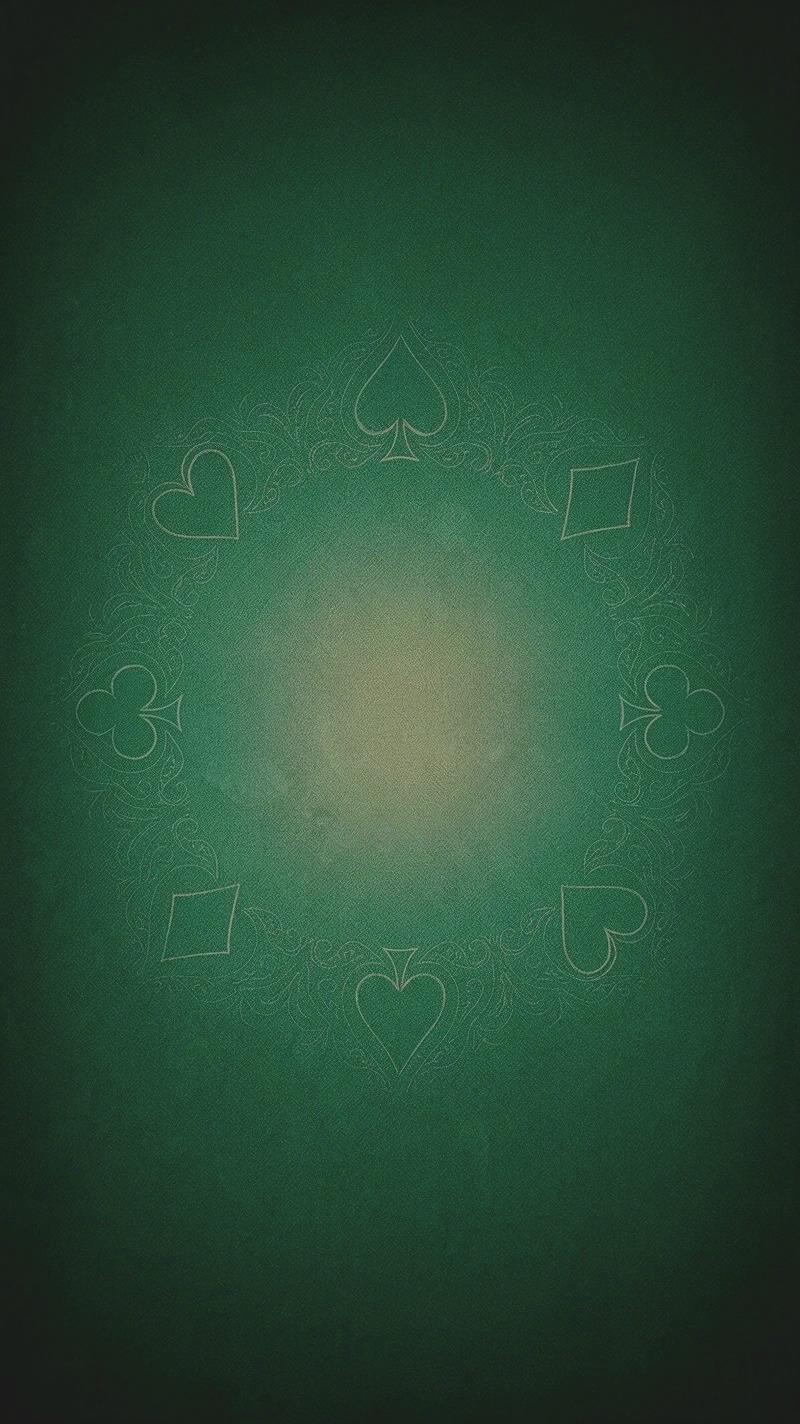
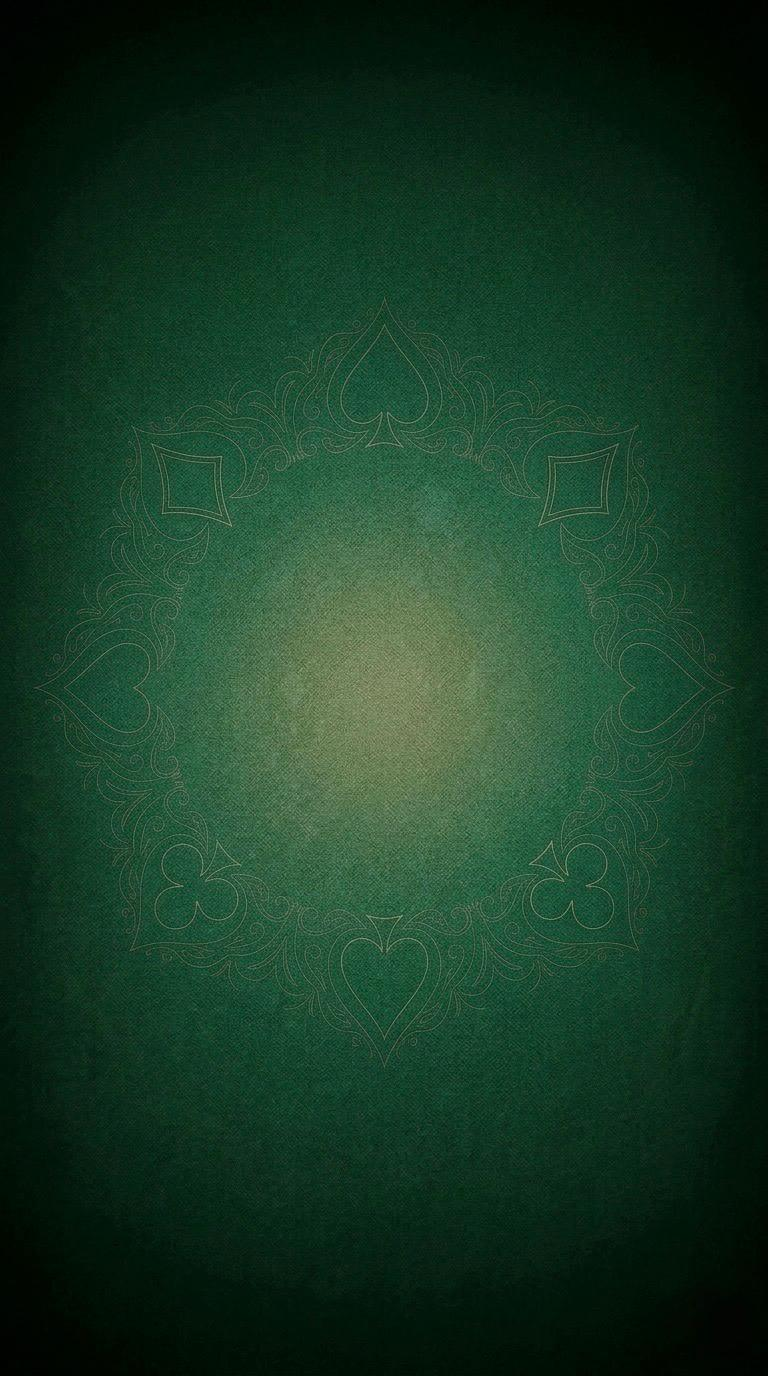
v4.371: new table background image

Changed region(s): [[0.0, 0.0, 1.0, 1.0]]

diff --git a/public/index.html b/public/index.html
@@ -733,7 +733,7 @@
         <button onclick="showMenu('menuBasra')" class="setup-btn" style="font-size:1.1rem;padding:14px;" id="btn_basra">Basra</button>
         <button onclick="showMenu('menuAuth')" class="setup-btn" id="mainAuthBtn" id2="btn_account" style="background:rgba(255,255,255,0.08);border:1px solid rgba(255,255,255,0.2);color:rgba(255,255,255,0.7);font-size:0.85rem;padding:8px;margin-top:4px;">👤 חשבון / התחבר</button>
     </div>
-    <div id="appVersionEl" style="position:absolute;bottom:12px;width:100%;text-align:center;color:rgba(255,255,255,0.25);font-size:11px;letter-spacing:1px;">v4.370</div>
+    <div id="appVersionEl" style="position:absolute;bottom:12px;width:100%;text-align:center;color:rgba(255,255,255,0.25);font-size:11px;letter-spacing:1px;">v4.371</div>
 
     <!-- Shithead sub-menu -->
     <div id="menuShithead" class="setup-grid hidden">
@@ -6991,7 +6991,7 @@ function startBasraVsAI() {
     // Response handled by existing basraJoined + basraStart + basraState events
 }
 
-// ══ BASRA OFFLINE ENGINE v4.370 ══
+// ══ BASRA OFFLINE ENGINE v4.371 ══
 // Runs Basra vs AI entirely client-side when offline.
 // Ports all pure logic from basra-server.js and the bot from server.js.
 // Dispatches to the same socket.on handlers the online game uses via socket._callbacks.
